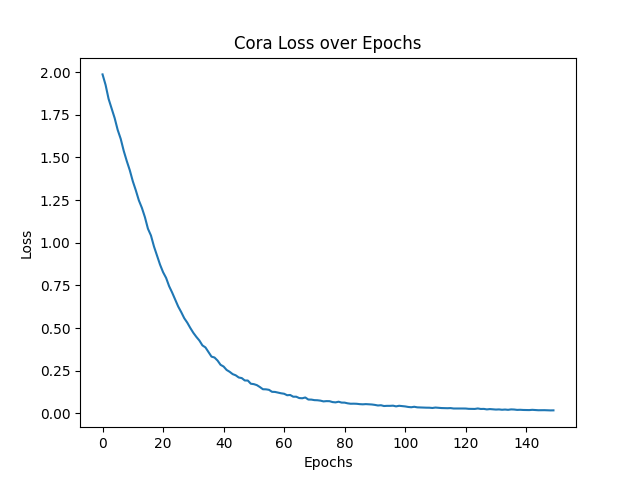
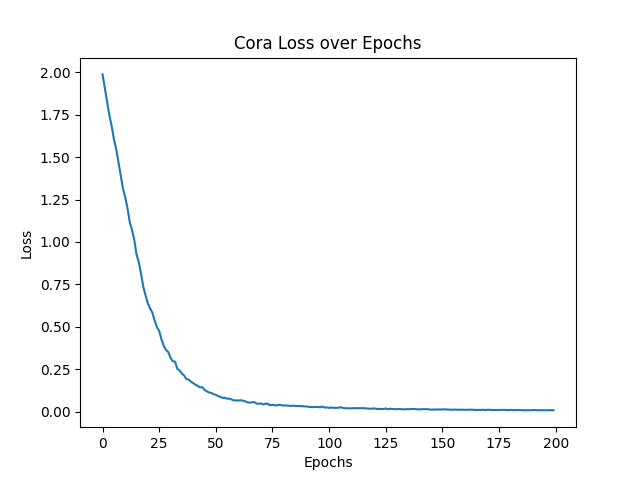
cora is done

diff --git a/ECS189G_Winter_2022_Source_Code_Template/code/stage_5_code/Method_CORA.py b/ECS189G_Winter_2022_Source_Code_Template/code/stage_5_code/Method_CORA.py
@@ -15,17 +15,18 @@ import time
 import torch.nn.functional as F
 from code.stage_5_code.GraphConvolution import GraphConvolution
 
-class Method_GCN(method, nn.Module):
+
+class Method_CORA(method, nn.Module):
     data = None
     adj = None
     device = "cuda" if torch.cuda.is_available() else "cpu"
     training = False
 
-    max_epoch = 150
+    max_epoch = 200
     learning_rate = 1e-3
 
-    hidden_size = 100
-    dropout = 0.2
+    hidden_size = 150
+    dropout = 0.5
 
     # terminate training if it gets this accurate cuz it might be overfitting
     termination_acc = 1
@@ -75,11 +76,7 @@ class Method_GCN(method, nn.Module):
                 }
                 accuracy = accuracy_evaluator.evaluate()
                 print(
-                    "Epoch:",
-                    epoch,
-                    "Accuracy:",
-                    accuracy,
-                    "Loss:",
+                    "Epoch:", epoch, "Accuracy:", accuracy, "Loss:", train_loss.item()
                 )
 
             if accuracy > self.termination_acc:
@@ -106,7 +103,7 @@ class Method_GCN(method, nn.Module):
         print("--start testing...")
         pred_y = self.test(self.data["graph"]["X"])
         end = time.perf_counter()
-        print((end - start)/60, " minutes elapsed")
+        print((end - start) / 60, " minutes elapsed")
         return (
             {
                 "pred_y": pred_y.cpu()[idx_train],

diff --git a/ECS189G_Winter_2022_Source_Code_Template/code/stage_5_code/Dataset_Loader.py b/ECS189G_Winter_2022_Source_Code_Template/code/stage_5_code/Dataset_Loader.py
@@ -9,6 +9,7 @@ from code.base_class.dataset import dataset
 import torch
 import numpy as np
 import scipy.sparse as sp
+import random
 
 
 class Dataset_Loader(dataset):
@@ -17,6 +18,8 @@ class Dataset_Loader(dataset):
 
     def __init__(self, seed=None, dName=None, dDescription=None):
         super(Dataset_Loader, self).__init__(dName, dDescription)
+        # seed here idk go crazy with it
+        random.seed(1)
 
     def adj_normalize(self, mx):
         """normalize sparse matrix"""
@@ -49,9 +52,9 @@ class Dataset_Loader(dataset):
     def sample(self, labels, ntrain, ntest):
         all = []
         for i in range(max(labels) + 1):
-            single_sample = [id for id, label in enumerate(labels) if label == i][
-                : ntrain + ntest
-            ]
+            single_sample = random.sample(
+                [id for id, label in enumerate(labels) if label == i], ntrain + ntest
+            )
             all.append(single_sample)
         train = []
         test = []
@@ -121,10 +124,5 @@ class Dataset_Loader(dataset):
             "y": labels,
             "utility": {"A": adj, "reverse_idx": reverse_idx_map},
         }
-
-        # print("----")
-        # print(idx_map)
-        # print(edges)
-        # print("----")
 
         return {"graph": graph, "train_test": train_test}

diff --git a/ECS189G_Winter_2022_Source_Code_Template/script/stage_5_script/script_cora.py b/ECS189G_Winter_2022_Source_Code_Template/script/stage_5_script/script_cora.py
@@ -1,5 +1,5 @@
 from code.stage_5_code.Dataset_Loader import Dataset_Loader
-from code.stage_5_code.Method_GCN import Method_GCN
+from code.stage_5_code.Method_CORA import Method_CORA
 from code.stage_2_code.Result_Saver import Result_Saver
 from code.stage_2_code.Setting_Train_Test import Setting_Train_Test
 from code.stage_2_code.Evaluate_Accuracy import Evaluate_Accuracy
@@ -23,7 +23,7 @@ if 1:
     data_obj.dataset_source_folder_path = "data/stage_5_data/cora"
     data_obj.dataset_name = "cora"
 
-    method_obj = Method_GCN("GCN ", "").to(device)
+    method_obj = Method_CORA("GCN ", "").to(device)
 
     result_obj = Result_Saver("saver", "")
     result_obj.result_destination_folder_path = "result/stage_5_result/cora_"
